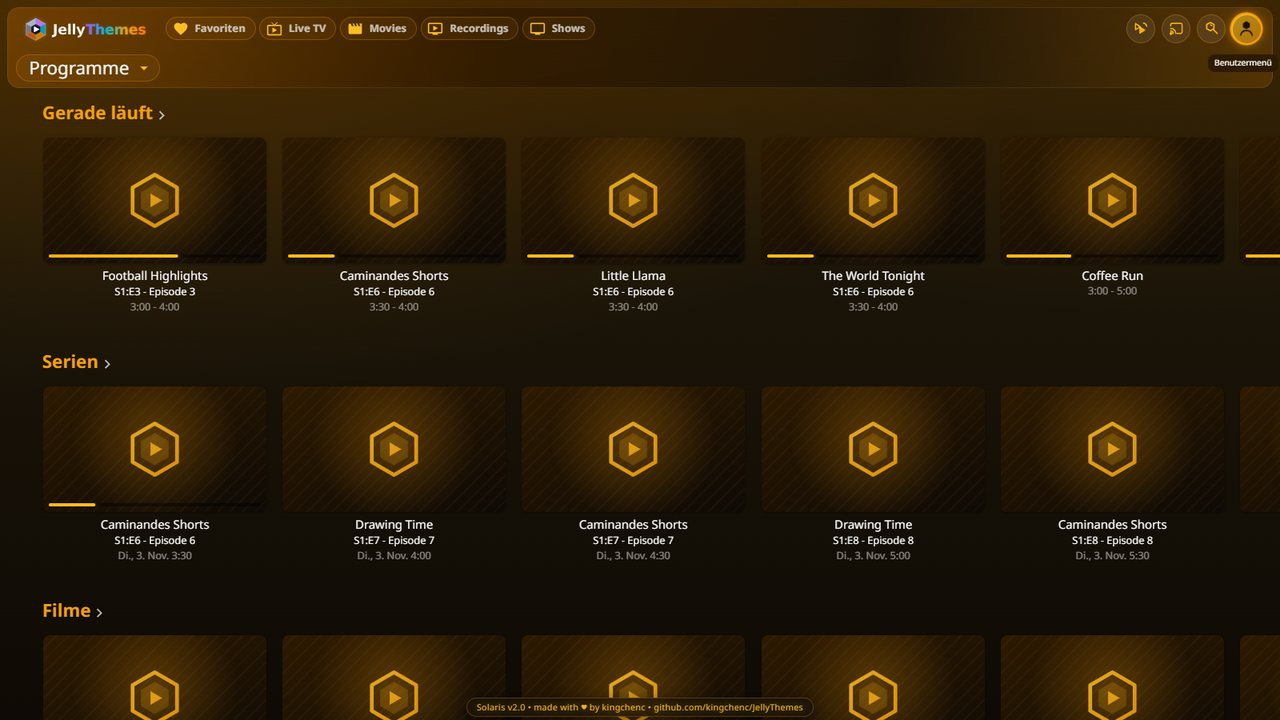
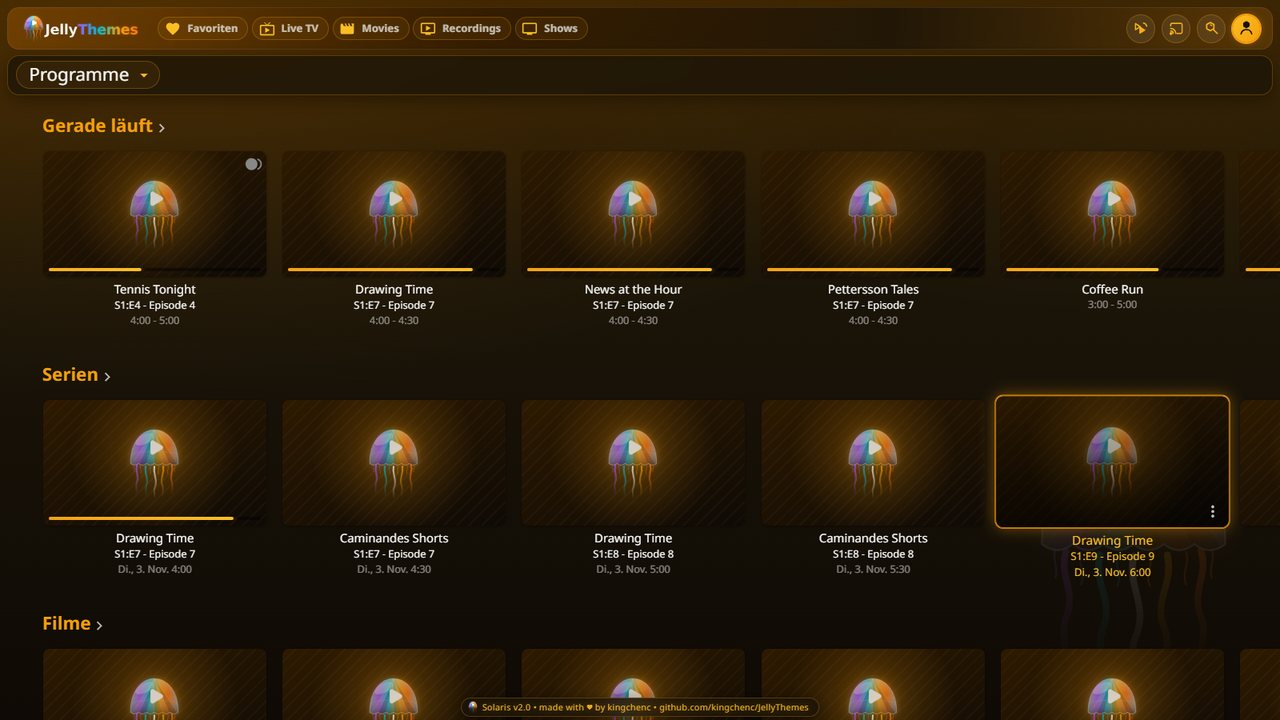
New previews of all six themes and a bigger gallery
- Previews (home and item page) of all six themes rendered again with
  the jellyfish logo and the new top bar.
- Gallery: all pictures new, plus sort, filter, user menu, SyncPlay,
  edit metadata, profile, search and login.

diff --git a/README.md b/README.md
@@ -141,6 +141,14 @@ More pages, all with Solaris (every theme looks the same in its own color):
 | Menu | Media info |
 | <img src="assets/gallery/playlists.jpg" alt="Playlists"> | <img src="assets/gallery/settings.jpg" alt="User settings"> |
 | Playlists | Settings |
+| <img src="assets/gallery/sort.jpg" alt="Sort menu of a library"> | <img src="assets/gallery/filter.jpg" alt="Filter menu of a library"> |
+| Sort | Filter |
+| <img src="assets/gallery/user-menu.jpg" alt="User menu"> | <img src="assets/gallery/syncplay.jpg" alt="SyncPlay menu"> |
+| User menu | SyncPlay |
+| <img src="assets/gallery/edit-metadata.jpg" alt="Edit metadata dialog"> | <img src="assets/gallery/profile.jpg" alt="Profile"> |
+| Edit metadata | Profile |
+| <img src="assets/gallery/search.jpg" alt="Search"> | <img src="assets/gallery/login.jpg" alt="Login page"> |
+| Search | Login |
 
 ## Features
 
